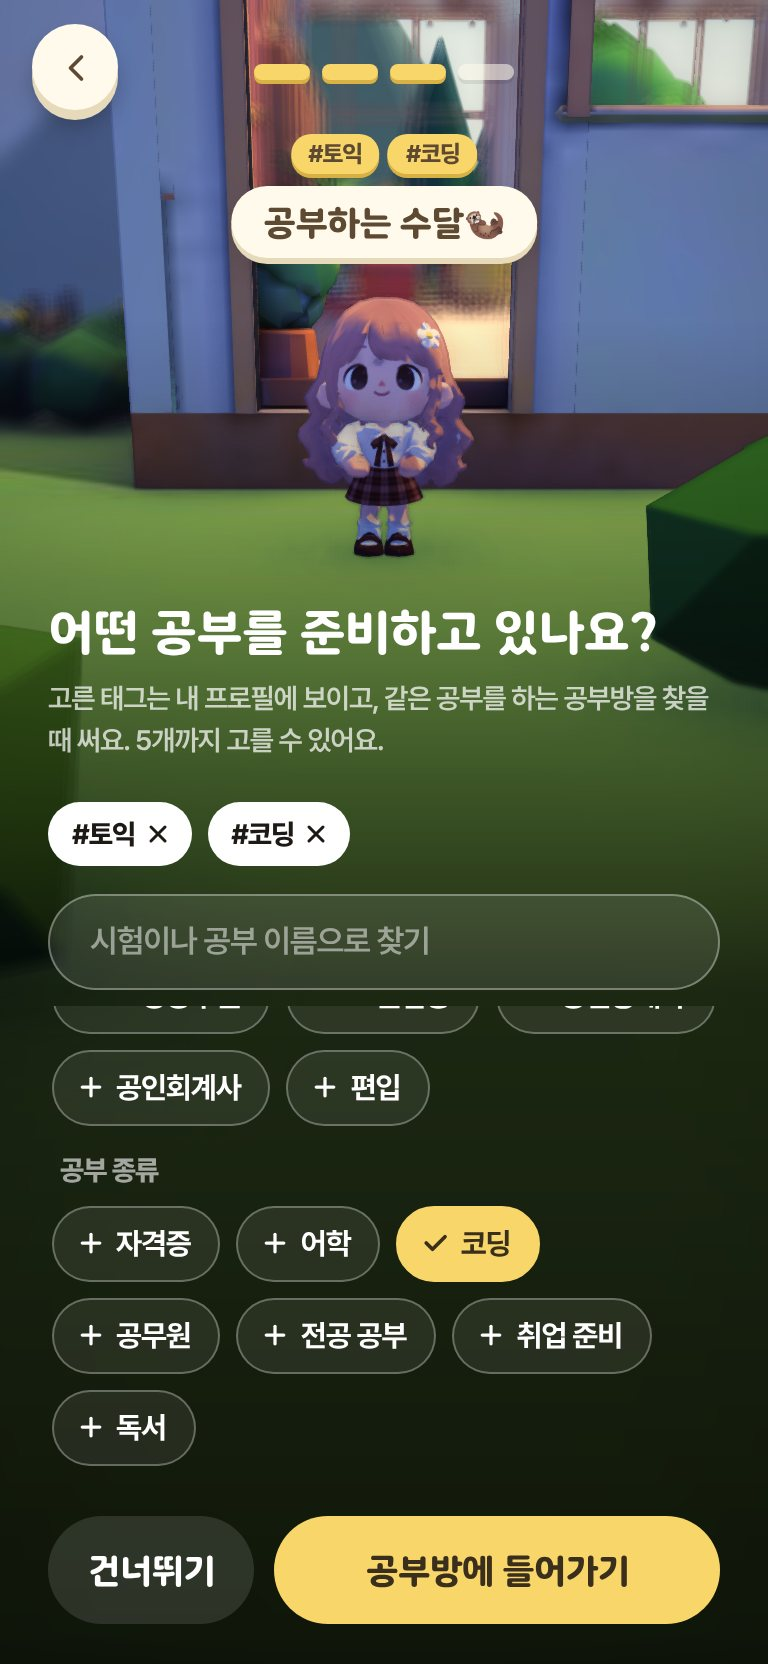
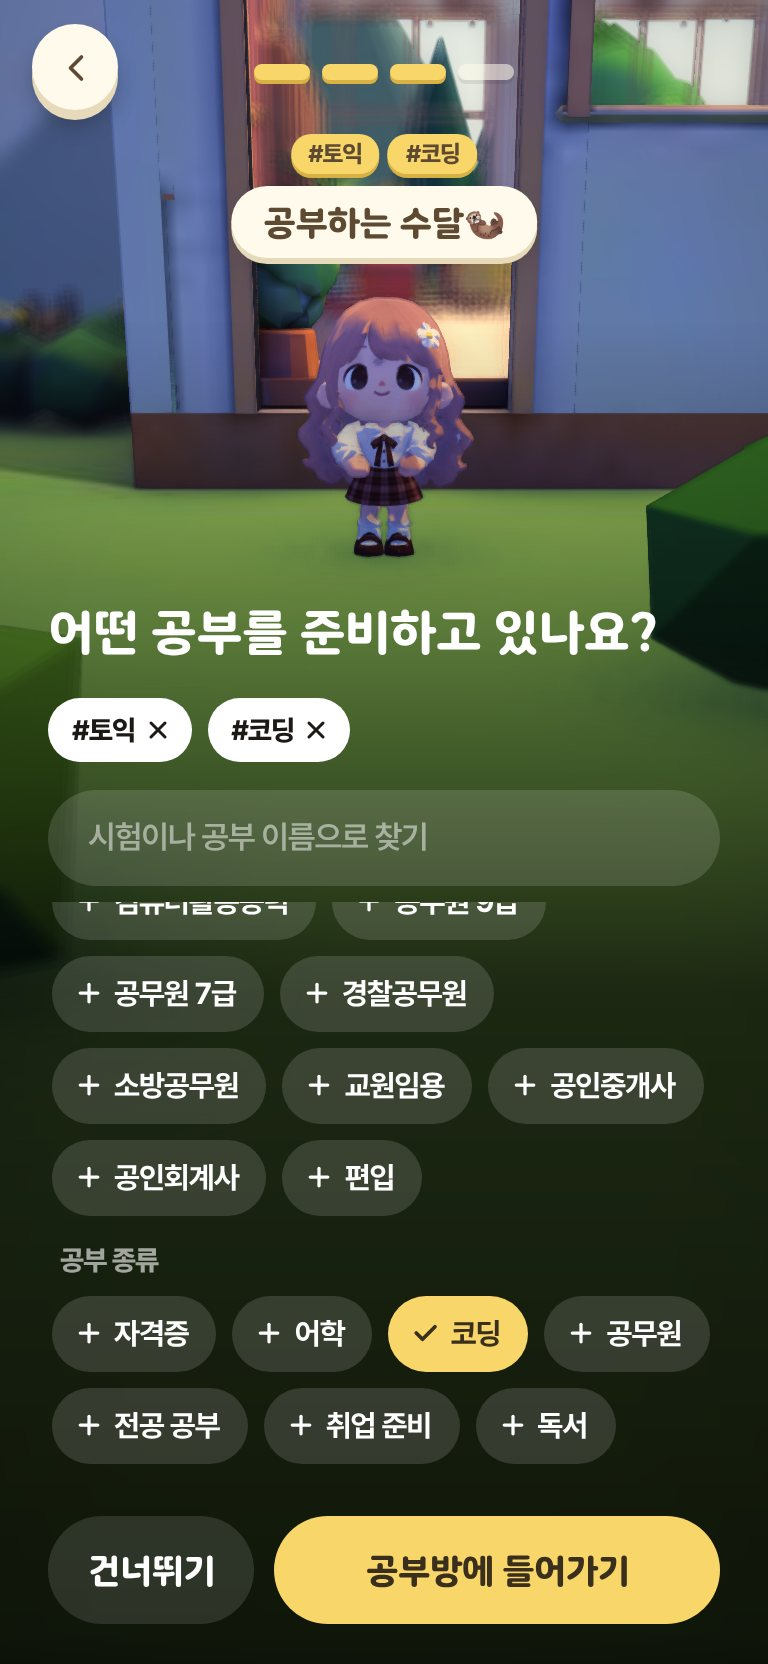
fix(web/onboarding): drop step descriptions and outline borders
사용자 요청(2026-11-24, "필요없는 description, border 없애"): 1–3단계 제목 아래 설명 문단을 빼고,
성별 고르기·이름 입력칸·태그 검색칸·태그 칩의 흰 테두리를 없애 옅은 흰 바탕만 남긴다. 쓰지 않게 된
웹 문구(onboardingNameDescription·onboardingGoalDescription·onboardingPrev/NextCharacter)를 지우고
캡처를 다시 찍었다.

Claude-Session: https://claude.ai/code/session_01UNZt6MP28b6hnoNrji3C1C

Changed region(s): [[0.0625, 0.4062, 0.9375, 0.9062]]

diff --git a/frontend/src/feature/study/onboarding/onboarding.module.css b/frontend/src/feature/study/onboarding/onboarding.module.css
@@ -54,27 +54,26 @@
 }
 @keyframes fade { from { opacity: 0; transform: translateY(8px); } }
 .body > * { flex-shrink: 0; }
-.title { margin: 0; font-family: var(--font-round); font-size: 24px; font-weight: 800; line-height: 1.3; outline: none; word-break: keep-all; text-wrap: balance; }
-.description { margin: 8px 0 20px; word-break: keep-all; font-size: 14px; font-weight: 600; line-height: 1.5; color: rgb(255 255 255 / 0.72); }
+.title { margin: 0 0 18px; font-family: var(--font-round); font-size: 24px; font-weight: 800; line-height: 1.3; outline: none; word-break: keep-all; text-wrap: balance; }
 
 .genders { display: flex; gap: 10px; }
 .choice {
   flex: 1 1 0; height: 52px; border-radius: 999px; cursor: pointer;
-  border: 1.5px solid rgb(255 255 255 / 0.35); background: rgb(255 255 255 / 0.08); color: #fff;
+  border: 0; background: rgb(255 255 255 / 0.14); color: #fff;
   font: inherit; font-family: var(--font-round); font-size: 17px; font-weight: 800;
-  transition: background 140ms ease-out, color 140ms ease-out, border-color 140ms ease-out;
+  transition: background 140ms ease-out, color 140ms ease-out;
 }
-.choiceOn { background: #fff; border-color: #fff; color: #1d1a16; }
+.choiceOn { background: #fff; color: #1d1a16; }
 .choice:focus-visible, .primary:focus-visible, .secondary:focus-visible { outline: 3px solid var(--i-sun); outline-offset: 2px; }
 
 .nameField { display: flex; flex-direction: column; }
 .input {
   width: 100%; height: 54px; padding: 0 22px; border-radius: 999px;
-  border: 1.5px solid rgb(255 255 255 / 0.35); background: rgb(255 255 255 / 0.1); color: #fff;
+  border: 0; background: rgb(255 255 255 / 0.14); color: #fff;
   font: inherit; font-family: var(--font-round); font-size: 18px; font-weight: 800; letter-spacing: inherit; outline: none;
 }
 .input::placeholder { color: rgb(255 255 255 / 0.5); font-weight: 600; }
-.input:focus-visible { border-color: #fff; }
+.input:focus-visible { box-shadow: inset 0 0 0 2px rgb(255 255 255 / 0.6); }
 .problem { min-height: 18px; margin: 8px 0 0 22px; font-size: 13px; font-weight: 700; color: #ffb4a6; }
 
 .goalResults.goalResults { max-height: none; flex: 1 1 auto; min-height: 96px; }

diff --git a/frontend/src/feature/study/tags/tags.module.css b/frontend/src/feature/study/tags/tags.module.css
@@ -70,18 +70,18 @@
 
 /* 온보딩(검은 그라데이션 위): 흰 글자·얇은 테두리 알약. */
 .inputDark.inputDark {
-  border: 1.5px solid rgb(255 255 255 / 0.35); background: rgb(255 255 255 / 0.1); color: #fff;
+  border: 0; background: rgb(255 255 255 / 0.14); color: #fff;
 }
 .inputDark::placeholder { color: rgb(255 255 255 / 0.5); }
-.inputDark:focus-visible { box-shadow: none; border-color: #fff; }
+.inputDark:focus-visible { box-shadow: inset 0 0 0 2px rgb(255 255 255 / 0.6); }
 .dark .groupLabel { color: rgb(255 255 255 / 0.6); }
 .dark .empty { color: rgb(255 255 255 / 0.8); }
 .dark .chips { gap: 8px; }
 .dark .pickedTag { background: #fff; color: #1d1a16; }
 .darkChip {
   display: inline-flex; align-items: center; gap: 5px; height: 38px; padding: 0 14px 0 11px; border-radius: 999px; cursor: pointer;
-  border: 1.5px solid rgb(255 255 255 / 0.3); background: rgb(255 255 255 / 0.08); color: #fff;
+  border: 0; background: rgb(255 255 255 / 0.14); color: #fff;
   font: inherit; font-size: 15px; font-weight: 700;
 }
-.darkChipOn { background: var(--i-sun); border-color: var(--i-sun); color: #3a2e1c; }
+.darkChipOn { background: var(--i-sun); color: #3a2e1c; }
 .darkChip:focus-visible { outline: 3px solid var(--i-sun); outline-offset: 2px; }

diff --git a/frontend/src/l10n/web_ko.ts b/frontend/src/l10n/web_ko.ts
@@ -53,16 +53,12 @@ export const webText = {
   onboardingBack: '뒤로',
   onboardingNext: '다음',
   onboardingSkip: '건너뛰기',
-  onboardingPrevCharacter: '이전 캐릭터',
-  onboardingNextCharacter: '다음 캐릭터',
   onboardingNameTitle: '공부방에서 쓸 이름을 정해 주세요',
-  onboardingNameDescription: '이 이름이 내 캐릭터 머리 위에 보여요.',
   onboardingNameLabel: '이름',
   onboardingNameEmpty: '이름을 적어 주세요',
   onboardingNameTooLong: '이름은 12자까지 쓸 수 있어요',
   onboardingNameInvalid: '이름에 쓸 수 없는 글자가 있어요',
   onboardingGoalTitle: '어떤 공부를 준비하고 있나요?',
-  onboardingGoalDescription: '고른 태그는 내 프로필에 보이고, 같은 공부를 하는 공부방을 찾을 때 써요. 5개까지 고를 수 있어요.',
   onboardingEnter: '공부방에 들어가기',
   onboardingSaveFailed: '저장하지 못했어요. 잠시 후 다시 시도해주세요.',
   // 공부방에서 캐릭터를 누르면 나오는 프로필 시트의 태그 칸(태그 공개, 사용자 결정 2026-11-23).

diff --git a/frontend/src/feature/study/onboarding/OnboardingPanel.tsx b/frontend/src/feature/study/onboarding/OnboardingPanel.tsx
@@ -81,7 +81,6 @@ export function OnboardingPanel(props: {
   useEffect(() => { card.current?.querySelector<HTMLElement>('h1')?.focus({ preventScroll: true }) }, [phase])
 
   const title = phase === 'pick' ? t('studyOnboardingGenderTitle') : phase === 'name' ? webText.onboardingNameTitle : webText.onboardingGoalTitle
-  const description = phase === 'pick' ? t('studyOnboardingGenderDescription') : phase === 'name' ? webText.onboardingNameDescription : webText.onboardingGoalDescription
 
   return (
     <div className={s.root}>
@@ -105,7 +104,6 @@ export function OnboardingPanel(props: {
       >
         <div className={s.body} key={phase}>
           <h1 className={s.title} tabIndex={-1}>{title}</h1>
-          <p className={s.description}>{description}</p>
           {phase === 'pick' && (
             <div className={s.genders} role="radiogroup" aria-label={title}>
               {(['male', 'female'] as const).map((g) => (

diff --git a/docs/design-parity/exceptions.md b/docs/design-parity/exceptions.md
@@ -25,5 +25,5 @@
 - **공부 요약("오늘의 공부" 시트, 앱에 없는 화면)**: 스토리에 올려 오늘 공부한 결과를 자랑하는 클립보드 프로필 시트 한 장. 구성은 사용자가 준 클립보드 프로필 레퍼런스(2026-11-23)를 따르되 캐릭터·로고·문구는 쓰지 않는다. 판·집게·모눈 종이·티켓·클립·테이프·낙서는 Codex로 그린 일러스트(`docs/sources.md`)이고, 집게는 판과 따로 그려 판 위 가장자리에 걸쳐 위로 솟게 얹는다. 티켓은 청록 띠·바코드 절취부가 있는 승차권에 "STUDY VILLAGE"를 둥근 글꼴로 얹는다. 글자·사진·스티커는 캔버스로 얹는다. 정리 규칙(사용자 피드백 2026-11-24 "예쁜데 중구난방"): 글꼴은 숫자=둥근 글꼴, 라벨·메모=손글씨(Gaegu) 둘만. 색은 데이터=잉크 갈색, 손글씨·장식=청록, 강조=숫자 밑 햇살 형광펜 셋만. 큰 장식은 뜻이 있는 것(사진 테이프·티켓과 클립·폴라로이드 카메라 스티커·"나!" 화살표·방 순위 트로피)만 두고 떠 있던 앱 스티커·워터마크·인덱스 탭은 뺐다. 자잘한 손그림(사용자 요청 2026-11-24)은 청록·노랑 낙서만 남겨 라벨 앞 작은 아이콘(별·꽃·음표·반짝이)과 정해 둔 빈자리 몇 곳("나!" 옆 꽃, 구분선 근처 별·음표)에 작게 둔다. 배치: 제목 자리에 "6시간 25분 공부"(둥근 글꼴 청록 + 흰 테두리, 숫자 크게·단위와 "공부" 작게), 위 칸은 정면 프로필 사진 + 연속 공부(불꽃)·방 순위(트로피, 서버 값이 있을 때만), 손그림 구분선, 아래 칸은 이번 세션·공부일 + 3인칭 "오늘의 공부방" 폴라로이드. 이름·목표·과목은 넣지 않는다(사용자 결정). 사진은 끝내기 직전에 3D 방에서 두 장 찍는다(정면은 벽이 가리지 않게 가까운 면을 사람 앞 0.75m까지 당김). 사진이 없으면 시계 무늬 빈 칸. 방 순위는 서버 랭킹(계획 5단계)이 없어 실제 흐름에서는 줄을 숨기고 개발용 표본 주소에서만 채운다. 공부방 위에 시트와 섬 단추(이미지 저장·공유(지원 시)·닫기)만 뜨고 방은 흐리지 않고 검정 35%로만 어둡게 한다. 저장 이미지(스토리 1080×1920)는 시계 무늬 호수 위 같은 시트 + StudyVillage. 섬 팔레트 낮 값으로 고정. 개발 빌드 전용 상시 확인 주소: `/?recap=goal`, `/?recap=more`, `/?recap=plain` — `recap/useRecapDemo.ts`. 캡처: `recap/sheet_modal.png`.
 - **공부방 태그·추천(앱에 없는 기능)**: 공부방 목록 맨 위에 "나와 같은 공부" 칸(밤하늘 위 흰 제목, 내 태그 알약, 오른쪽 "태그 수정" 섬 단추, 아래 같은 카드 2열). 내 태그가 없으면 같은 자리에 종이 카드 안내와 "태그 고르기" 햇살 단추. 겹치는 방이 없으면 빈 상태 그림 대신 한 줄 안내(방이 많아 보여야 해서 큰 빈 그림을 두지 않음). 카드에는 소개 아래 초록 `#태그` 한 줄. "내 공부 태그" 시트는 과목 고르기 시트(PaperSheet·턱 있는 알약 칩·둥근 입력칸)를 따르고, 고른 태그는 초록 알약. 문구는 `l10n/web_tags_ko.ts`(새로 씀). 검색 중에는 추천 칸을 숨긴다. 캡처: `tags/rooms_recommended_mobile.jpg`, `tags/my_tags_sheet.jpg`. 사용자 결정(2026-11-23, `docs/plan/study-tags.md`).
 - **월드 고정 하늘·가까운 면**: 앱은 하늘을 화면 한 장으로 그려 카메라를 돌려도 달·해가 화면에 붙어 있다. 웹은 카메라를 따라다니는 하늘 구(`three/skyDome.ts`)에 그려 달·해·별이 창문과 함께 움직이고(해·달은 자리들이 보는 쪽 하늘을 가로지름), 카메라 가까운 면을 0.1→0.3m, 먼 면을 80m로 바꿔 창틀·문틀·벽·그림 사이 깊이 경쟁을 줄였다. 사용자 버그 신고(2026-11-23).
-- **첫 가입 온보딩(앱에 없는 흐름, 사용자 결정 2026-11-23·24)**: 앱은 공부방 첫 방문 때 소개 카드(`studyOnboarding*`)만 넘긴다. 웹은 4단계: ① 카페 서쪽 문밖 잔디에서 남자·여자 캐릭터가 나란히 서 있고 누르거나 아래 단추로 고른다(고른 쪽이 한 걸음 나와 손을 흔든다), ② 이름 — 머리 위 이름표가 입력대로 바뀐다, ③ 목표 태그(0개면 건너뛰기, 고른 태그가 이름표 위에 붙는다), ④ 고른 캐릭터가 문으로 걸어 들어가 내 자리(공용 테이블·개인 책상 0–18번 중 무작위)에 앉는 것을 카메라가 따라간 뒤 공부 탭 위 코치 마크 4장(미니 타이머·사운드·공부방 탭·통계 탭). 1–3단계 글·단추는 카드 없이 화면 아래 검은 그라데이션 위 흰 글자와 단순한 알약 단추(사용자 요청 2026-11-24: "쓸데없는 모달 UI 없애고"). 캐릭터 GLB에 애니메이션 클립이 없어 서기·걷기·손 흔들기는 앉은 자세와 같은 방식으로 관절을 돌려 만든다(`room3d/domain/actorMotion.ts`, 사용자 결정). 문밖·통로 좌표는 `build_study_room_v2.py`에서 읽었다. 걸어 들어가는 동안 벽 윗부분을 걷어 문밖 카메라가 벽 너머를 본다. 줄인 움직임 설정이면 걷기·흔들기 없이 바로 자리로 옮긴다. 캡처: `docs/design-parity/onboarding/`
+- **첫 가입 온보딩(앱에 없는 흐름, 사용자 결정 2026-11-23·24)**: 앱은 공부방 첫 방문 때 소개 카드(`studyOnboarding*`)만 넘긴다. 웹은 4단계: ① 카페 서쪽 문밖 잔디에서 남자·여자 캐릭터가 나란히 서 있고 누르거나 아래 단추로 고른다(고른 쪽이 한 걸음 나와 손을 흔든다), ② 이름 — 머리 위 이름표가 입력대로 바뀐다, ③ 목표 태그(0개면 건너뛰기, 고른 태그가 이름표 위에 붙는다), ④ 고른 캐릭터가 문으로 걸어 들어가 내 자리(공용 테이블·개인 책상 0–18번 중 무작위)에 앉는 것을 카메라가 따라간 뒤 공부 탭 위 코치 마크 4장(미니 타이머·사운드·공부방 탭·통계 탭). 1–3단계 글·단추는 카드 없이 화면 아래 검은 그라데이션 위 흰 제목 한 줄과 테두리 없는 알약 단추(사용자 요청 2026-11-24: "쓸데없는 모달 UI 없애고", "필요없는 description, border 없애"). 캐릭터 GLB에 애니메이션 클립이 없어 서기·걷기·손 흔들기는 앉은 자세와 같은 방식으로 관절을 돌려 만든다(`room3d/domain/actorMotion.ts`, 사용자 결정). 문밖·통로 좌표는 `build_study_room_v2.py`에서 읽었다. 걸어 들어가는 동안 벽 윗부분을 걷어 문밖 카메라가 벽 너머를 본다. 줄인 움직임 설정이면 걷기·흔들기 없이 바로 자리로 옮긴다. 캡처: `docs/design-parity/onboarding/`
 - **캐릭터 프로필 시트(앱 studyMember 시트의 일부만)**: 공부방에서 캐릭터를 누르면 이름과 공개 태그를 보인다(사용자 결정 2026-11-23). 웹 공부방에는 아직 나만 앉아 있어 내 프로필만 열리고, 앱 시트의 이번 세션·방 순위·신고·친구 요청 칸은 방 멤버가 붙을 때 더한다.
